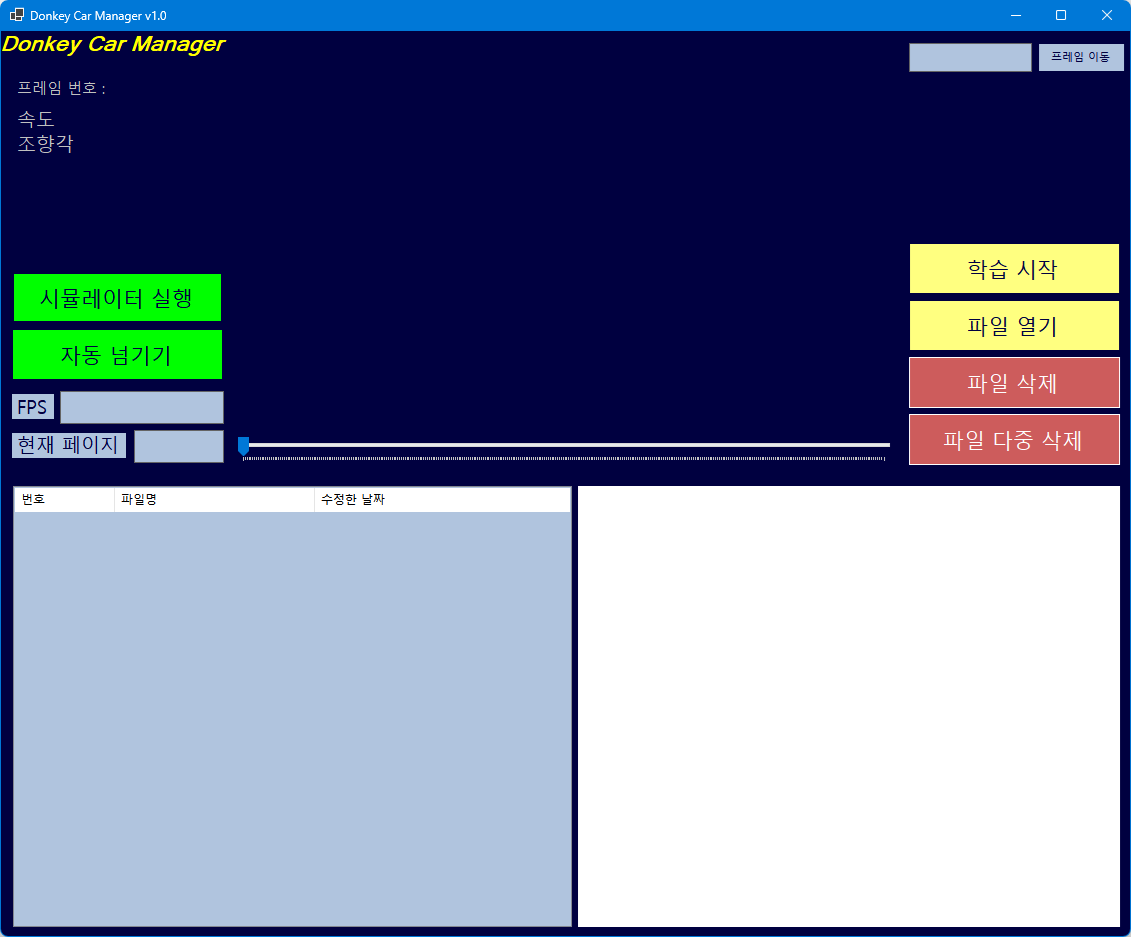
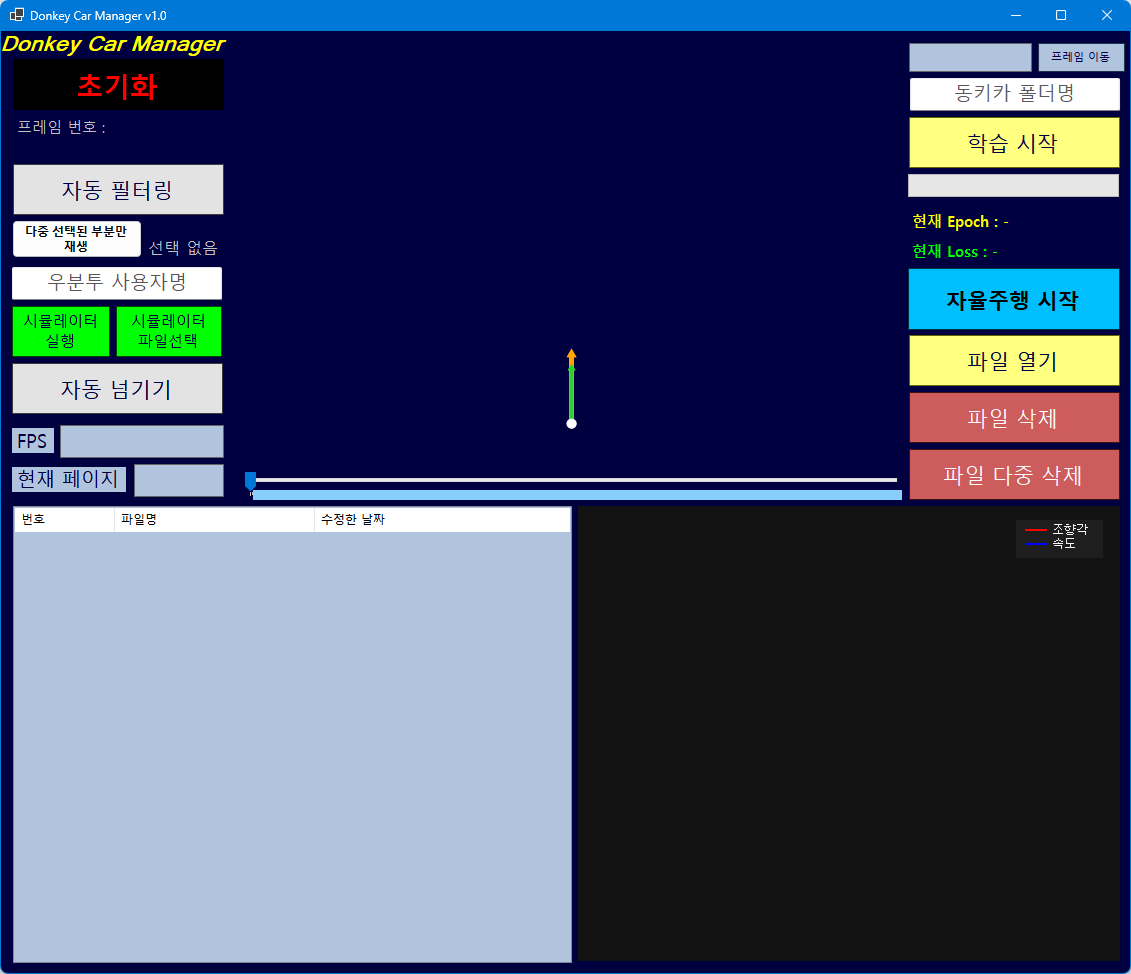
README

diff --git a/README.md b/README.md
@@ -25,15 +25,28 @@
 
 ![초기화면](img/초기화면.png)
 * 초기화면
+* 화면 구성
+  * 시뮬레이터 실행 버튼
+  * 파일 불러오기 버튼
+  * 정렬 버튼
+  * 프레임 선택 텍스트박스
+  * 페이지 선택 텍스트박스
+  * 자동넘기기 버튼
+  * 파일 삭제 버튼
+  * 파일 다중 삭제 버튼
+  * 학습 시작 버튼
+  * 조향값 인터페이스
 
-![시뮬레이터](img/시뮬레이터.png)
-* 시뮬레이터 실행 버튼 클릭 시 동키카 시뮬레이터가 웹에서 실행됩니다.
+![시뮬레이터선택](img/시뮬선택.png)
+![시뮬레이터선택2](img/시뮬실행.png)
+* 시뮬레이터 선택 버튼으로 시뮬레이터를 선택할 수 있습니다.
+* 우분투 ID를 입력하여 시뮬레이터를 실행할 수 있습니다.
 
 ![파일선택](img/파일선택.png)
 * 시뮬레이터를 통해 수집한 데이터가 있는 폴더를 선택합니다.
 
 ![파일불러오기](img/파일불러오기.png)
-* 파일 불러오기 완료 화면
+* 파일 불러오기 완료 화면.
 
 ![이름정렬](img/이름정렬.png)
 ![날짜정렬](img/날짜정렬.png)
@@ -48,11 +61,33 @@
 ![자동넘기기](img/자동넘기기.png)
 * 자동넘기기 버튼으로 유저가 선택한 FPS로 프레임을 살펴볼 수 있습니다.
 
+![트랙바선택](img/트랙바선택.png)
+![트랙바선택2](img/트랙바선택재생.png)
+* shift키를 누르고 트랙바를 클릭하면 해당 범위만큼 트랙바를 선택할 수 있습니다.
+* 자동넘기기를 누르면 선택한 범위만큼 프레임이 재생됩니다.
+* 파일다중삭제 버튼으로 해당 범위만큼 프레임을 삭제할 수 있습니다.
+
+![디버깅그래프](img/디버깅그래프.png)
+* 프레임의 속도와 조향값을 그래프로 시각화하여 디버깅할 수 있습니다.
+
+![자동필터링](img/자동필터링.png)
+* 조향값이 과하게 어긋난 경우 자동필터링 버튼으로 해당 프레임을 삭제할 수 있습니다.
+
 ![파일삭제](img/파일삭제.png)
 * 파일삭제 버튼 혹은 Delete 버튼으로 단일 프레임을 삭제할 수 있습니다.
 
 ![파일다중삭제](img/파일다중삭제.png)
 * 파일다중삭제 버튼으로 유저가 선택한 여러 개의 프레임을 동시에 삭제할 수 있습니다.
 
-![학습시작](img/학습시작.png)
-* 학습시작 버튼으로 선택한 데이터로 모델 학습을 시작할 수 있습니다
+![학습시작](img/학습시작(디버깅).png)
+![학습시작2](img/학습시작(메시지).png)
+* 학습시작 버튼으로 선택한 데이터로 모델 학습을 시작할 수 있습니다.
+* 학습시작 버튼을 누르면 학습의 진행도가 기존 현재 프레임이 나오던 픽쳐박스에 나오게 됩니다.
+* 학습에 대한 전체 진행도는 학습 시작 버튼 아래 게이지로 표시됩니다.
+
+![자율주행](img/자율주행시작(1).png)
+![자율주행](img/자율주행시작(2).png)
+* 학습된 모델로 자율주행을 구동할 수 있습니다.
+
+![초기화](img/초기화.png)
+* 초기화 버튼으로 프로그램을 초기화할 수 있습니다.